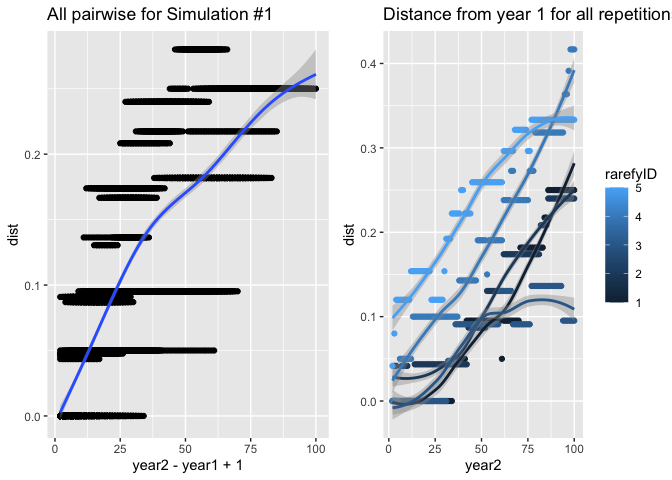
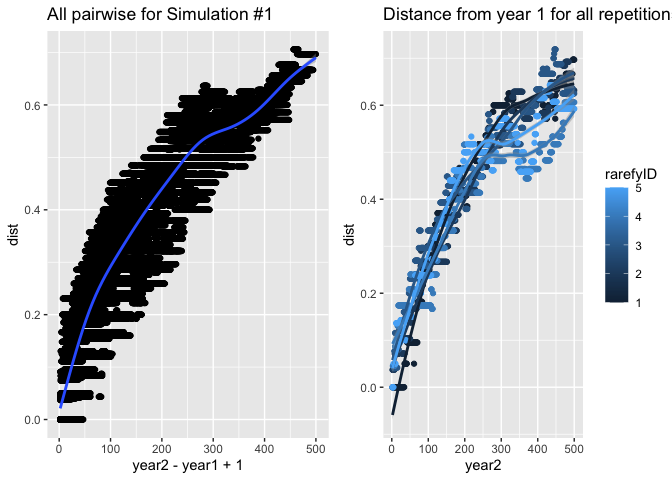
Extend simulations to 500 generations

diff --git a/code/turnover_sim.md b/code/turnover_sim.md
@@ -13,7 +13,7 @@ Turnover simulations to test effect of duration
 ``` r
 ## Basic settings
 nburn = 1000 # length of burnin
-ngen = 100 # number of simulated generations
+ngen = 500 # number of simulated generations
 nrep = 5 # number of replicates
 nindiv = 100 # number of local individuals
 nsamp = 100 # number of local individuals sampled (if == nindiv, then sample all of them)
